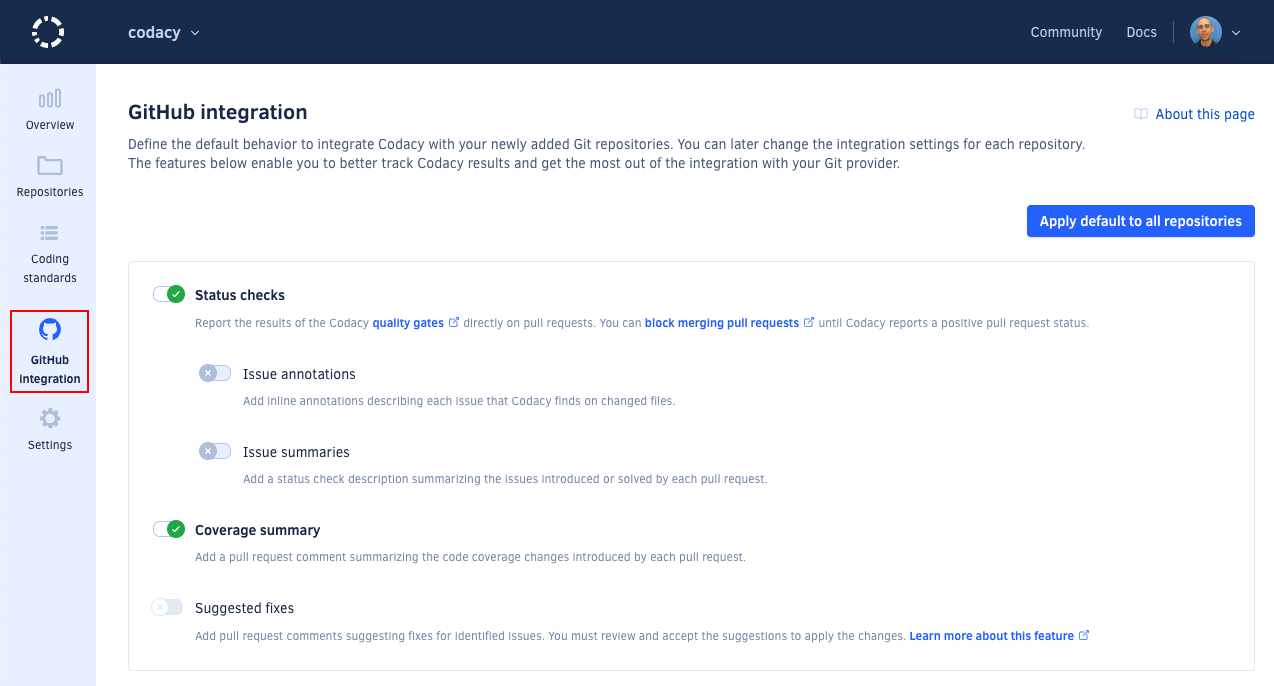
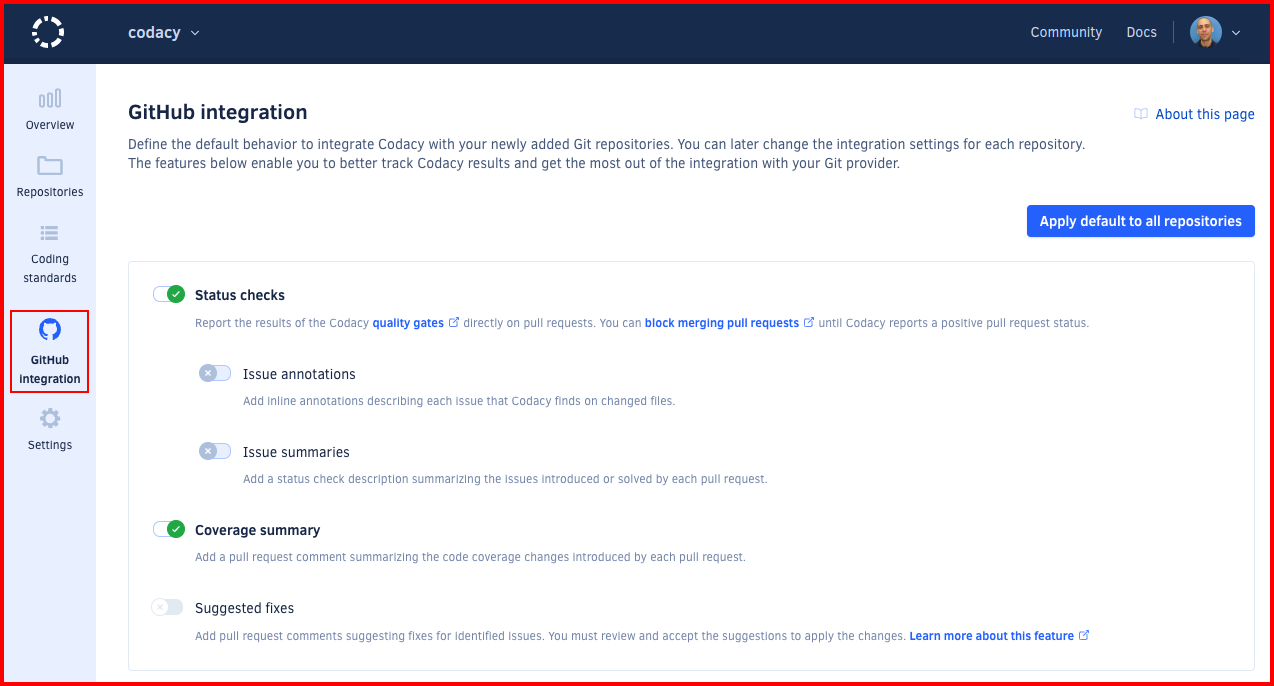
wip: Add TODOs and placeholder screenshots

Changed region(s): [[0.0, 0.0, 1.0, 1.0]]

diff --git a/docs/organizations/configuring-default-git-provider-integration-settings.md b/docs/organizations/configuring-default-git-provider-integration-settings.md
@@ -4,7 +4,7 @@ You can configure the default settings that Codacy uses to integrate with your G
 
 To configure these default settings, go to the Git provider integration page for your organization on the left navigation sidebar.
 
-![Default Git provider integration settings](images/default-git-provider-settings.png)
+![Default Git provider integration settings](images/default-git-provider-settings.png)<!-- TODO CY-6853 -->
 
 The organization-level Git provider integration settings define the defaults that Codacy applies to new repositories. You can then customize the settings for each individual repository, which depend on your Git provider, [GitHub](../repositories-configure/integrations/github-integration.md), [GitLab](../repositories-configure/integrations/gitlab-integration.md) or [Bitbucket](../repositories-configure/integrations/bitbucket-integration.md).
 
@@ -12,7 +12,7 @@ The organization-level Git provider integration settings define the defaults tha
 
 To ensure that all your repositories are configured with the default Git provider integration settings defined for your organization, click the button **Apply default to all repositories**.
 
-![Apply default settings to all repositories](images/default-git-provider-settings-apply-all.png)
+![Apply default settings to all repositories](images/default-git-provider-settings-apply-all.png)<!-- TODO CY-6853 -->
 
 ## See also
 

diff --git a/docs/repositories-configure/integrations/bitbucket-integration.md b/docs/repositories-configure/integrations/bitbucket-integration.md
@@ -14,7 +14,7 @@ When the integration is enabled, you can also create pull request comments and J
 
 To enable the Bitbucket integration, open your repository **Settings**, tab **Integrations**. When you add a new repository, Codacy enables the integration using the [default settings for your organization](../../organizations/configuring-default-git-provider-integration-settings.md).
 
-![Bitbucket integration](images/bitbucket-integration.png)
+![Bitbucket integration](images/bitbucket-integration.png)<!-- TODO CY-6853 -->
 
 If you remove the integration, you can enable it again as follows:
 
@@ -62,7 +62,7 @@ Adds comments on the lines of the pull request where Codacy finds new issues. Cl
 
 Adds AI enhanced comments with insights to help you fix identified issues.
 
-![AI-enhanced comment on Bitbucket](images/bitbucket-integration-ai-comment.png)
+![AI-enhanced comment on Bitbucket](images/bitbucket-integration-ai-comment.png)<!-- TODO CY-6853 -->
 
 ### Pull Request Summary
 

diff --git a/docs/repositories-configure/integrations/gitlab-integration.md b/docs/repositories-configure/integrations/gitlab-integration.md
@@ -10,7 +10,7 @@ The GitLab integration incorporates Codacy on your existing Git provider workflo
 
 To enable the GitLab integration, open your repository **Settings**, tab **Integrations**. When you add a new repository, Codacy enables the integration using the [default settings for your organization](../../organizations/configuring-default-git-provider-integration-settings.md).
 
-![GitLab integration](images/gitlab-integration.png)
+![GitLab integration](images/gitlab-integration.png)<!-- TODO CY-6853 -->
 
 If you remove the integration, you can enable it again as follows:
 
@@ -58,7 +58,7 @@ Adds comments on the lines of the merge request where Codacy finds new issues. C
 
 Adds AI enhanced comments with insights to help you fix identified issues.
 
-![AI-enhanced comment on GitLab](images/gitlab-integration-ai-comment.png)
+![AI-enhanced comment on GitLab](images/gitlab-integration-ai-comment.png)<!-- TODO CY-6853 -->
 
 ### Pull Request Summary
 

diff --git a/docs/repositories-configure/integrations/github-integration.md b/docs/repositories-configure/integrations/github-integration.md
@@ -8,7 +8,7 @@ The GitHub integration incorporates Codacy on your existing Git provider workflo
 
 When the integration is enabled, you can also create pull request comments and GitHub issues directly from Codacy when [browsing the existing issues](../../repositories/issues.md) on the repository:
 
-![GitHub integration for issues](images/github-integration-issues.png)
+![GitHub integration for issues](images/github-integration-issues.png)<!-- TODO CY-6853 -->
 
 ## Enabling the GitHub integration {: id="enabling"}
 
@@ -95,7 +95,7 @@ Adds comments on the lines of the pull request where Codacy finds new issues wit
 
 Adds AI enhanced comments with insights to help you fix identified issues. Enable also **Suggested fixes** to get ready-to-commit AI-generated fixes.
 
-![AI-enhanced comment on GitHub](images/github-integration-ai-comment.png)
+![AI-enhanced comment on GitHub](images/github-integration-ai-comment.png)<!-- TODO CY-6853 -->
 
 ## See also
 
